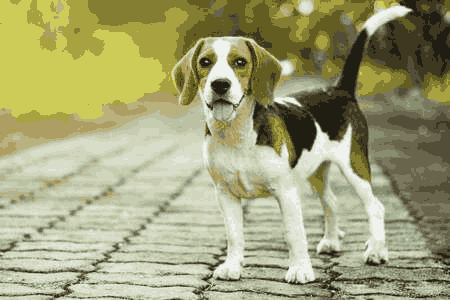
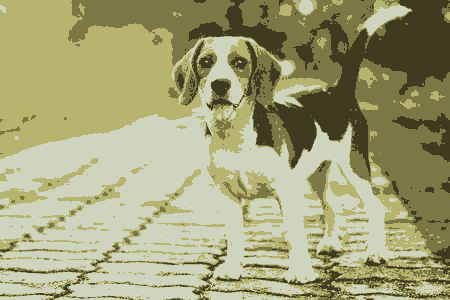
reduzi o número de cores da imagem comprimida para que esta consiga ter um tamanho inferior à primeira

diff --git a/programa/main.py b/programa/main.py
@@ -1,49 +1,6 @@
 from functions import *
 import numpy 
-# Defenições de compressão de Imagem
-def initialize_K_centroids(X, K):
-    """ Choose K points from X at random """
-    m = len(X)
-    return X[numpy.random.choice(m, K, replace=False), :]
-
-def find_closest_centroids(X, centroids):
-    m = len(X)
-    c = numpy.zeros(m)
-    for i in range(m):
-        # Find distances
-        distances = numpy.linalg.norm(X[i] - centroids, axis=1)
-        # Assign closest cluster to c[i]
-        c[i] = numpy.argmin(distances)
-    return c
-
-def compute_means(X, idx, K):
-    _, n = X.shape
-    centroids = numpy.zeros((K, n))
-    for k in range(K):
-        examples = X[numpy.where(idx == k)]
-        mean = [numpy.mean(column) for column in examples.T]
-        centroids[k] = mean
-    return centroids
-
-def find_k_means(X, K, max_iters=10):
-    centroids = initialize_K_centroids(X, K)
-    previous_centroids = centroids
-    for _ in range(max_iters):
-        idx = find_closest_centroids(X, centroids)
-        centroids = compute_means(X, idx, K)
-        if (centroids == previous_centroids).all():
-            # The centroids aren't moving anymore.
-            return centroids
-        else:
-            previous_centroids = centroids
-
-    return centroids, idx
-
-def load_image(path):
-    """ Load image from path. Return a numpy array """
-    image = Image.open(path)
-    return numpy.asarray(image) / 255
-
+import os
 
 if __name__=='__main__':
     clearConsole()
@@ -196,15 +153,20 @@ if __name__=='__main__':
                 image_path = ('images/cao.jpg')
                 image = load_image(image_path)
                 w, h, d = image.shape
-                print('Image found with width: {}, height: {}, depth: {}'.format(w, h, d))
                 X = image.reshape((w * h, d))
-                K = 20 # the desired number of colors in the compressed image
+                K = 4 # the desired number of colors in the compressed image
                 colors, _ = find_k_means(X, K, max_iters=20)
                 idx = find_closest_centroids(X, colors)
                 idx = numpy.array(idx, dtype=numpy.uint8)
                 X_reconstructed = numpy.array(colors[idx, :] * 255, dtype=numpy.uint8).reshape((w, h, d))
                 compressed_image = Image.fromarray(X_reconstructed)
                 compressed_image.save('images/imagemCompressao.png')
+                tamanhoImagem = os.stat('images/cao.jpg').st_size
+                tamanhoImagemComp = os.stat('images/imagemCompressao.png').st_size
+                razao = tamanhoImagem/tamanhoImagemComp
+                print("Tamanho do imagem original: {0}KB\nTamanho da imagem comprimida: {1}KB\nTaxa de compressão: {2}".format(tamanhoImagem, tamanhoImagemComp, razao))
+                sleep(5)
+
 
             elif option == 2:
                 comprimeVideo()

diff --git a/programa/functions.py b/programa/functions.py
@@ -12,6 +12,50 @@ except ImportError:
     sys.exit()
 
 
+# Defenições de compressão de Imagem
+def initialize_K_centroids(X, K):
+    """ Choose K points from X at random """
+    m = len(X)
+    return X[numpy.random.choice(m, K, replace=False), :]
+
+def find_closest_centroids(X, centroids):
+    m = len(X)
+    c = numpy.zeros(m)
+    for i in range(m):
+        # Find distances
+        distances = numpy.linalg.norm(X[i] - centroids, axis=1)
+        # Assign closest cluster to c[i]
+        c[i] = numpy.argmin(distances)
+    return c
+
+def compute_means(X, idx, K):
+    _, n = X.shape
+    centroids = numpy.zeros((K, n))
+    for k in range(K):
+        examples = X[numpy.where(idx == k)]
+        mean = [numpy.mean(column) for column in examples.T]
+        centroids[k] = mean
+    return centroids
+
+def find_k_means(X, K, max_iters=10):
+    centroids = initialize_K_centroids(X, K)
+    previous_centroids = centroids
+    for _ in range(max_iters):
+        idx = find_closest_centroids(X, centroids)
+        centroids = compute_means(X, idx, K)
+        if (centroids == previous_centroids).all():
+            # The centroids aren't moving anymore.
+            return centroids
+        else:
+            previous_centroids = centroids
+
+    return centroids, idx
+
+def load_image(path):
+    """ Load image from path. Return a numpy array """
+    image = Image.open(path)
+    return numpy.asarray(image) / 255
+
 def imagemMultiplicacao(pathImagem1, pathImagem2):
     # Abrir imagens
     imagem1 = Image.open(pathImagem1)
